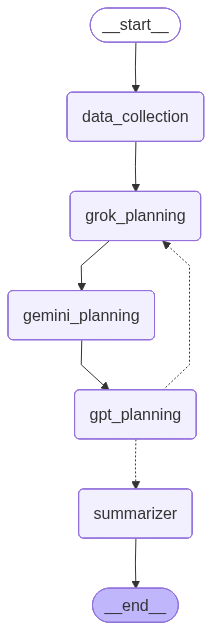
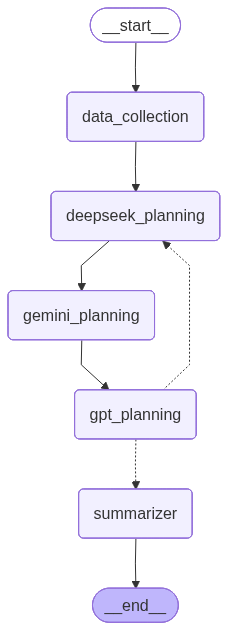
deepseek instead of grok

diff --git a/advanced_crop_planning.py b/advanced_crop_planning.py
@@ -25,7 +25,7 @@ serper_key = os.getenv('serper_api_key')
 if not all([groq_key, gemini_key, cohere_key, serper_key]):
     raise ValueError("Missing one or more API keys in environment variables")
 
-llm_grok = ChatGroq(
+llm_deepseek = ChatGroq(
     model="deepseek-r1-distill-llama-70b",
     api_key=groq_key,
     temperature=0.6
@@ -126,7 +126,7 @@ def create_crop_planning_workflow(location: str, plan_duration: int, max_iterati
                 default_summary = (
                     f"In {location} for a {plan_duration}-month period, the loamy soil with a pH of 6.5, high nitrogen, medium phosphorus, "
                     f"and low potassium supports crops like wheat, rice, chickpeas, and mustard. The expected climate includes moderate temperatures "
-                    f"around 25°C with seasonal variations, adequate rainfall during monsoon periods, and cooler winters suitable for rabi crops. "
+                    f"around 25C with seasonal variations, adequate rainfall during monsoon periods, and cooler winters suitable for rabi crops. "
                     f"Adequate moisture levels suit these crops, but potassium supplementation is advised to optimize yields. "
                     f"Crop rotation with legumes like chickpeas enhances soil nitrogen, while mustard improves soil structure. "
                     f"For a {plan_duration}-month plan, prioritize crops like wheat and chickpeas for rabi season or rice for kharif season, "
@@ -141,7 +141,7 @@ def create_crop_planning_workflow(location: str, plan_duration: int, max_iterati
             default_summary = (
                 f"In {location} for a {plan_duration}-month period, the loamy soil with a pH of 6.5, high nitrogen, medium phosphorus, "
                 f"and low potassium supports crops like wheat, rice, chickpeas, and mustard. The expected climate includes moderate temperatures "
-                f"around 25°C with seasonal variations, adequate rainfall during monsoon periods, and cooler winters suitable for rabi crops. "
+                f"around 25C with seasonal variations, adequate rainfall during monsoon periods, and cooler winters suitable for rabi crops. "
                 f"Adequate moisture levels suit these crops, but potassium supplementation is advised to optimize yields. "
                 f"Crop rotation with legumes like chickpeas enhances soil nitrogen, while mustard improves soil structure. "
                 f"For a {plan_duration}-month plan, prioritize crops like wheat and chickpeas for rabi season or rice for kharif season, "
@@ -163,7 +163,7 @@ def create_crop_planning_workflow(location: str, plan_duration: int, max_iterati
             "iteration": state['iteration']
         }
 
-    def grok_planning_node(state: CropPlanState) -> CropPlanState:
+    def deepseek_planning_node(state: CropPlanState) -> CropPlanState:
         try:
             data_summary = state['history'][-1] if state['history'] else "No data available"
             history = "\n".join(state['history'])
@@ -175,18 +175,18 @@ def create_crop_planning_workflow(location: str, plan_duration: int, max_iterati
                 soil_data=json.dumps(state['soil_data']),
                 climate_data=json.dumps(state['climate_data'])
             )
-            plan = f"Grok Plan: {sanitize_text(llm_grok.invoke(prompt).content)}"
-            logger.info(f"Grok plan: {plan}")
+            plan = f"DeepSeek Plan: {sanitize_text(llm_deepseek.invoke(prompt).content)}"
+            logger.info(f"DeepSeek plan: {plan}")
             return {
                 "crop_plan": plan,
                 "history": state['history'] + [plan],
                 "iteration": state['iteration'] + 1
             }
         except Exception as e:
-            logger.error(f"Error in Grok planning: {e}")
+            logger.error(f"Error in DeepSeek planning: {e}")
             return {
-                "crop_plan": "Error generating Grok plan",
-                "history": state['history'] + ["Grok Plan: Error"],
+                "crop_plan": "Error generating DeepSeek plan",
+                "history": state['history'] + ["DeepSeek Plan: Error"],
                 "iteration": state['iteration'] + 1
             }
 
@@ -263,24 +263,24 @@ def create_crop_planning_workflow(location: str, plan_duration: int, max_iterati
             return {"final_plan": "Error generating final plan"}
 
     workflow.add_node("data_collection", data_collection_node)
-    workflow.add_node("grok_planning", grok_planning_node)
+    workflow.add_node("deepseek_planning", deepseek_planning_node)
     workflow.add_node("gemini_planning", gemini_planning_node)
     workflow.add_node("gpt_planning", gpt_planning_node)
     workflow.add_node("summarizer", summarizer_node)
 
     workflow.set_entry_point("data_collection")
-    workflow.add_edge("data_collection", "grok_planning")
-    workflow.add_edge("grok_planning", "gemini_planning")
+    workflow.add_edge("data_collection", "deepseek_planning")
+    workflow.add_edge("deepseek_planning", "gemini_planning")
     workflow.add_edge("gemini_planning", "gpt_planning")
 
     def check_iterations(state: CropPlanState) -> str:
         logger.debug(f"Iteration count: {state['iteration']}/{max_iterations}")
-        return "summarizer" if state['iteration'] >= max_iterations else "grok_planning"
+        return "summarizer" if state['iteration'] >= max_iterations else "deepseek_planning"
 
     workflow.add_conditional_edges(
         "gpt_planning",
         check_iterations,
-        {"summarizer": "summarizer", "grok_planning": "grok_planning"}
+        {"summarizer": "summarizer", "deepseek_planning": "deepseek_planning"}
     )
     workflow.add_edge("summarizer", END)
 
@@ -330,7 +330,7 @@ try:
             "max_iterations": 3,
             "models": {
                 "data_collection": "gemini-2.5-flash",
-                "grok_planning": "deepseek-r1-distill-llama-70b",
+                "deepseek_planning": "deepseek-r1-distill-llama-70b",
                 "gemini_planning": "gemini-2.5-flash",
                 "gpt_planning": "openai/gpt-oss-120b",
                 "summarizer": "cohere"

diff --git a/advanced_crop_planning2.py b/advanced_crop_planning2.py
@@ -25,7 +25,7 @@ serper_key = os.getenv('serper_api_key')
 if not all([groq_key, gemini_key, cohere_key, serper_key]):
     raise ValueError("Missing one or more API keys in environment variables")
 
-llm_grok = ChatGroq(
+llm_deepseek = ChatGroq(
     model="deepseek-r1-distill-llama-70b",
     api_key=groq_key,
     temperature=0.6
@@ -126,7 +126,7 @@ def create_crop_planning_workflow(location: str, plan_duration: int, max_iterati
                 default_summary = (
                     f"In {location} for a {plan_duration}-month period, the loamy soil with a pH of 6.5, high nitrogen, medium phosphorus, "
                     f"and low potassium supports crops like wheat, rice, chickpeas, and mustard. The expected climate includes moderate temperatures "
-                    f"around 25°C with seasonal variations, adequate rainfall during monsoon periods, and cooler winters suitable for rabi crops. "
+                    f"around 25C with seasonal variations, adequate rainfall during monsoon periods, and cooler winters suitable for rabi crops. "
                     f"Adequate moisture levels suit these crops, but potassium supplementation is advised to optimize yields. "
                     f"Crop rotation with legumes like chickpeas enhances soil nitrogen, while mustard improves soil structure. "
                     f"For a {plan_duration}-month plan, prioritize crops like wheat and chickpeas for rabi season or rice for kharif season, "
@@ -141,7 +141,7 @@ def create_crop_planning_workflow(location: str, plan_duration: int, max_iterati
             default_summary = (
                 f"In {location} for a {plan_duration}-month period, the loamy soil with a pH of 6.5, high nitrogen, medium phosphorus, "
                 f"and low potassium supports crops like wheat, rice, chickpeas, and mustard. The expected climate includes moderate temperatures "
-                f"around 25°C with seasonal variations, adequate rainfall during monsoon periods, and cooler winters suitable for rabi crops. "
+                f"around 25C with seasonal variations, adequate rainfall during monsoon periods, and cooler winters suitable for rabi crops. "
                 f"Adequate moisture levels suit these crops, but potassium supplementation is advised to optimize yields. "
                 f"Crop rotation with legumes like chickpeas enhances soil nitrogen, while mustard improves soil structure. "
                 f"For a {plan_duration}-month plan, prioritize crops like wheat and chickpeas for rabi season or rice for kharif season, "
@@ -163,7 +163,7 @@ def create_crop_planning_workflow(location: str, plan_duration: int, max_iterati
             "iteration": state['iteration']
         }
 
-    def grok_planning_node(state: CropPlanState) -> CropPlanState:
+    def deepseek_planning_node(state: CropPlanState) -> CropPlanState:
         try:
             data_summary = state['history'][-1] if state['history'] else "No data available"
             history = "\n".join(state['history'])
@@ -175,18 +175,18 @@ def create_crop_planning_workflow(location: str, plan_duration: int, max_iterati
                 soil_data=json.dumps(state['soil_data']),
                 climate_data=json.dumps(state['climate_data'])
             )
-            plan = f"Grok Plan: {sanitize_text(llm_grok.invoke(prompt).content)}"
-            logger.info(f"Grok plan: {plan}")
+            plan = f"DeepSeek Plan: {sanitize_text(llm_deepseek.invoke(prompt).content)}"
+            logger.info(f"DeepSeek plan: {plan}")
             return {
                 "crop_plan": plan,
                 "history": state['history'] + [plan],
                 "iteration": state['iteration'] + 1
             }
         except Exception as e:
-            logger.error(f"Error in Grok planning: {e}")
+            logger.error(f"Error in DeepSeek planning: {e}")
             return {
-                "crop_plan": "Error generating Grok plan",
-                "history": state['history'] + ["Grok Plan: Error"],
+                "crop_plan": "Error generating DeepSeek plan",
+                "history": state['history'] + ["DeepSeek Plan: Error"],
                 "iteration": state['iteration'] + 1
             }
 
@@ -263,24 +263,24 @@ def create_crop_planning_workflow(location: str, plan_duration: int, max_iterati
             return {"final_plan": "Error generating final plan"}
 
     workflow.add_node("data_collection", data_collection_node)
-    workflow.add_node("grok_planning", grok_planning_node)
+    workflow.add_node("deepseek_planning", deepseek_planning_node)
     workflow.add_node("gemini_planning", gemini_planning_node)
     workflow.add_node("gpt_planning", gpt_planning_node)
     workflow.add_node("summarizer", summarizer_node)
 
     workflow.set_entry_point("data_collection")
-    workflow.add_edge("data_collection", "grok_planning")
-    workflow.add_edge("grok_planning", "gemini_planning")
+    workflow.add_edge("data_collection", "deepseek_planning")
+    workflow.add_edge("deepseek_planning", "gemini_planning")
     workflow.add_edge("gemini_planning", "gpt_planning")
 
     def check_iterations(state: CropPlanState) -> str:
         logger.debug(f"Iteration count: {state['iteration']}/{max_iterations}")
-        return "summarizer" if state['iteration'] >= max_iterations else "grok_planning"
+        return "summarizer" if state['iteration'] >= max_iterations else "deepseek_planning"
 
     workflow.add_conditional_edges(
         "gpt_planning",
         check_iterations,
-        {"summarizer": "summarizer", "grok_planning": "grok_planning"}
+        {"summarizer": "summarizer", "deepseek_planning": "deepseek_planning"}
     )
     workflow.add_edge("summarizer", END)
 
@@ -330,7 +330,7 @@ try:
             "max_iterations": 3,
             "models": {
                 "data_collection": "gemini-2.5-flash",
-                "grok_planning": "deepseek-r1-distill-llama-70b",
+                "deepseek_planning": "deepseek-r1-distill-llama-70b",
                 "gemini_planning": "gemini-2.5-flash",
                 "gpt_planning": "openai/gpt-oss-120b",
                 "summarizer": "cohere"
